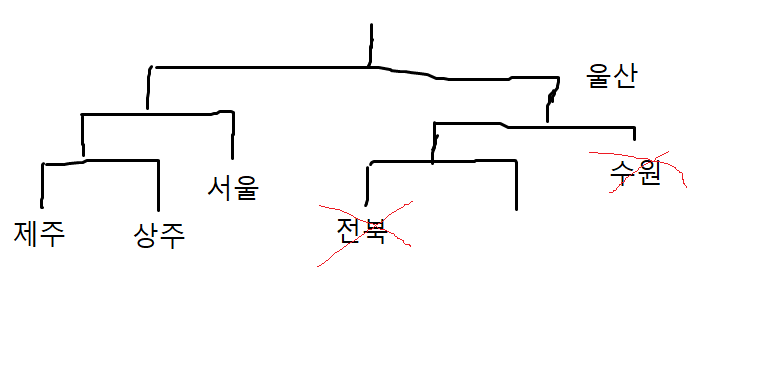
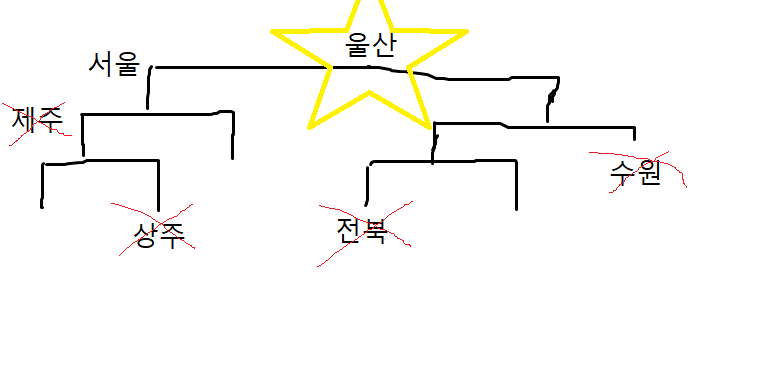
제주 업데이트, 이적반영, 산돌컵 마무리

diff --git a/season2.html b/season2.html
@@ -12,6 +12,9 @@
     <h1>시즌 2 드래프트 현황</h1>
     <img src="image/draft.PNG">
     
+    <h1>이적 현황 18:40 업데이트</h1>
+    <img src="image/%EC%9D%B4%EC%A0%81.PNG">
+    
     <a href="seoul.html"> <h1>서울</h1> </a>
     <a href="suwon.html"> <h1>수원</h1> </a>
     <a href="jeonbuk.html"> <h1>전북</h1> </a>

diff --git a/jeju.html b/jeju.html
@@ -6,6 +6,8 @@
         <title>제주</title>
     </head>
     <body>
+        <h1>제주 포메이션</h1>
+        <img src="image/jeju.PNG">
     </body>
     
 </html>
